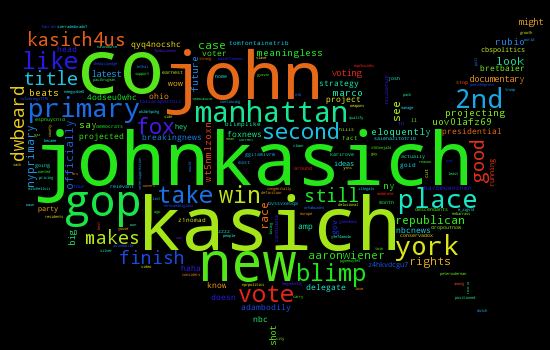
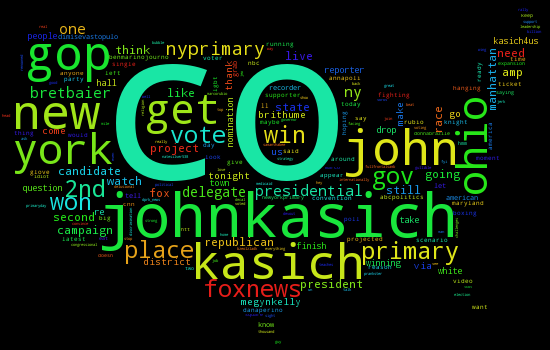
changed mongo query

diff --git a/Visualizations/generate_wordcloud.py b/Visualizations/generate_wordcloud.py
@@ -26,19 +26,19 @@ def fetch_tweets_from_mongo(time_lapsed, candidate):
 
 	tweet_list = []
 	current_time = get_current_time()
-	#print "current_time",current_time
+	print "current_time",current_time
 	time_lapse = datetime.timedelta(minutes=time_lapsed)
 	#print "time_lapse",time_lapse
-	query_time = str(current_time - time_lapse)
-	#print "query_time",query_time
+	query_time = current_time - time_lapse
+	print "query_time",query_time
 	db = pymongo.MongoClient().tweets
 
 	#TO-DO: rewrite query to include candidate name also
-	cursor = db.latest_tweets.find({ "$and": [ {"created_at":{ "$lt": query_time}}, { "candidate": candidate} ] })
+	cursor = db.latest_tweets.find({ "$and": [ {"created_at":{ "$gt": query_time}}, { "candidate": candidate} ] })
 	
 	# for displaying stats about the number of tweets
 	tweet_count = cursor.count()
-	#print tweet_count
+	print tweet_count
 	
 	for document in cursor:
 		tweet_list.append(document['text'])
